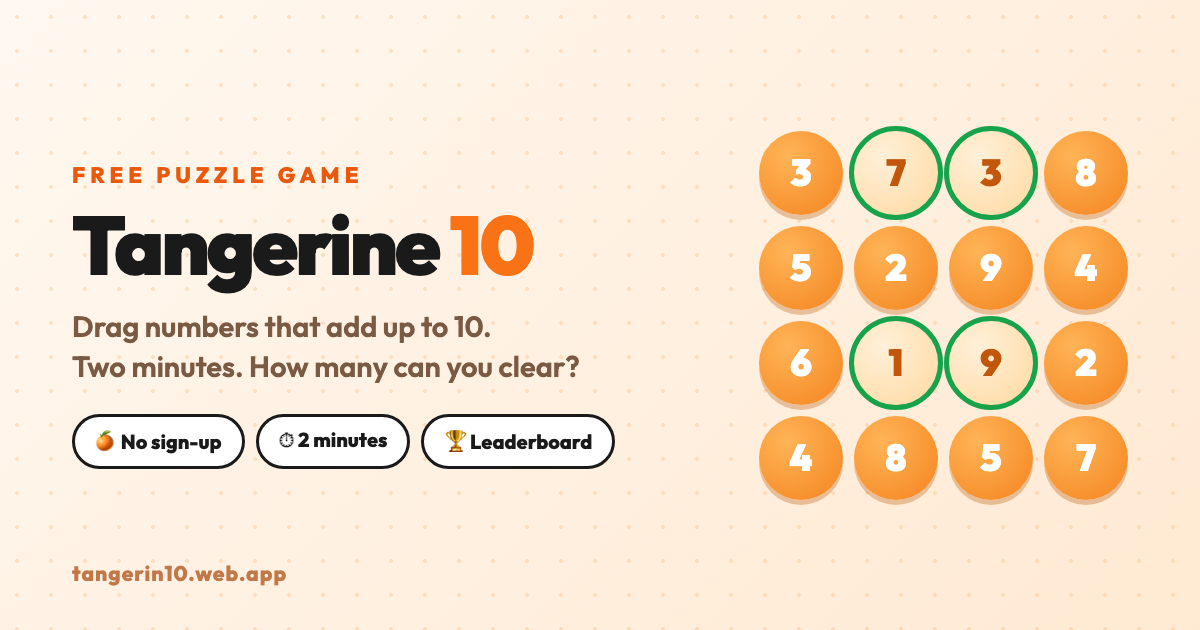
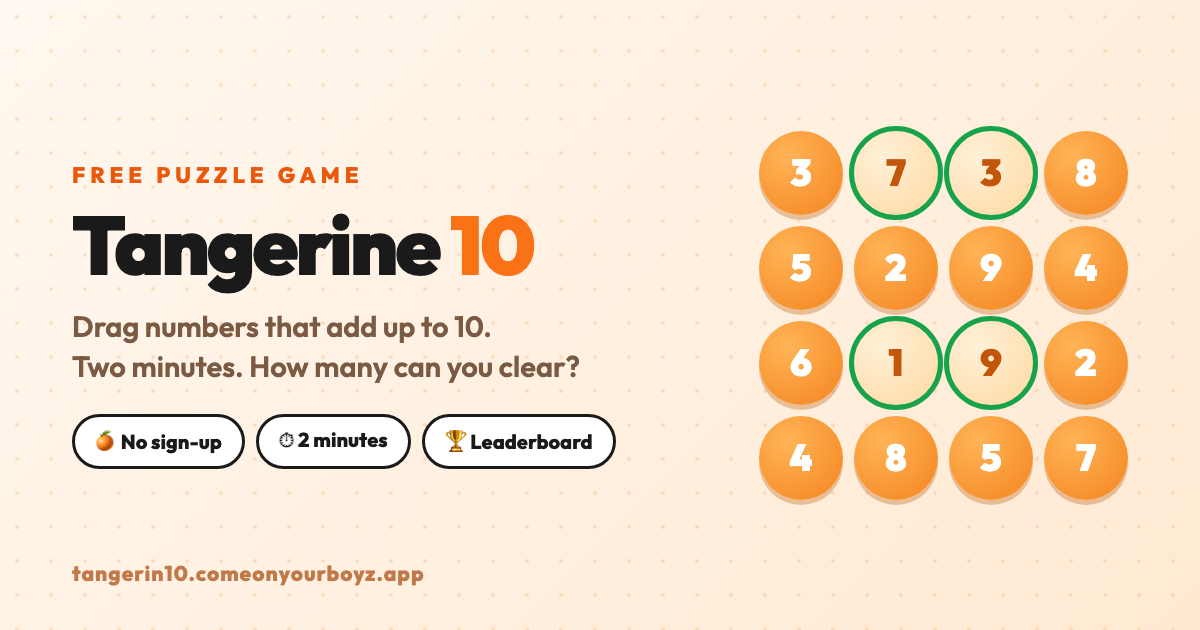
fix : 공유 이미지(og-image)의 옛 주소 글자를 새 도메인으로 교체
what : 디자인 원본 기준으로 og 이미지를 다시 만들어 교체하고, 카카오·SNS 캐시가 새로 받도록 이미지 주소의 버전 값을 올림
why : 공유 카드 이미지에 옛 주소(*.web.app)가 박혀 있어 이전한 도메인과 맞지 않았음

AI-Use: Yes
AI-Model: Claude Sonnet 5.5
AI-Contribution: 90%

diff --git a/public/ko/index.html b/public/ko/index.html
@@ -19,7 +19,7 @@
 <title>귤게임 Tangerine 10 — 숫자 합 10 만들기 퍼즐</title>
 <meta property="og:title" content="귤게임 Tangerine 10 — 숫자 합 10 만들기 퍼즐">
 <meta property="og:description" content="2분 동안 합이 10이 되는 숫자를 골라 없애는 무료 숫자 퍼즐 게임입니다. 전 세계 랭킹에 도전해 보세요.">
-<meta property="og:image" content="https://tangerin10.comeonyourboyz.app/og-tangerin10.png?v=7">
+<meta property="og:image" content="https://tangerin10.comeonyourboyz.app/og-tangerin10.png?v=8">
 <meta property="og:url" content="https://tangerin10.comeonyourboyz.app/ko/">
 <meta property="og:type" content="website">
 <meta property="og:site_name" content="Tangerine 10">
@@ -32,7 +32,7 @@
 <link rel="alternate" hreflang="en" href="https://tangerin10.comeonyourboyz.app/"><link rel="alternate" hreflang="ko" href="https://tangerin10.comeonyourboyz.app/ko/"><link rel="alternate" hreflang="x-default" href="https://tangerin10.comeonyourboyz.app/">
 <meta name="twitter:card" content="summary_large_image">
 <meta name="twitter:title" content="귤게임 Tangerine 10 — 숫자 합 10 만들기 퍼즐">
-<meta name="twitter:image" content="https://tangerin10.comeonyourboyz.app/og-tangerin10.png?v=7">
+<meta name="twitter:image" content="https://tangerin10.comeonyourboyz.app/og-tangerin10.png?v=8">
 <!-- fonts:start --><link rel="preconnect" href="https://fonts.googleapis.com"><link rel="preconnect" href="https://fonts.gstatic.com" crossorigin>
 <link href="https://fonts.googleapis.com/css2?family=Bricolage+Grotesque:opsz,wght@12..96,500;12..96,700;12..96,800&family=Outfit:wght@400;600;700;800;900&display=swap" rel="stylesheet">
 <link href="https://cdn.jsdelivr.net/gh/sun-typeface/SUIT@2/fonts/static/woff2/SUIT.css" rel="stylesheet"><!-- fonts:end -->
@@ -811,7 +811,7 @@ function shareKakao(){
     content:{
       title:'🍊 Tangerine 10',
       description:'나 '+S+'점 달성! 2분 안에 귤 터뜨리기 게임. 도전해봐!',
-      imageUrl:'https://tangerin10.comeonyourboyz.app/og-tangerin10.png?v=7',
+      imageUrl:'https://tangerin10.comeonyourboyz.app/og-tangerin10.png?v=8',
       imageWidth:800,
       imageHeight:600,
       link:{mobileWebUrl:SHARE_URL,webUrl:SHARE_URL}

diff --git a/public/index.html b/public/index.html
@@ -19,7 +19,7 @@
 <title>Tangerine 10 — Number Puzzle Game</title>
 <meta property="og:title" content="Tangerine 10 — Number Puzzle Game">
 <meta property="og:description" content="A free 2-minute number puzzle: drag to pick numbers that add up to 10 and climb the global ranking.">
-<meta property="og:image" content="https://tangerin10.comeonyourboyz.app/og-tangerin10.png?v=7">
+<meta property="og:image" content="https://tangerin10.comeonyourboyz.app/og-tangerin10.png?v=8">
 <meta property="og:url" content="https://tangerin10.comeonyourboyz.app">
 <meta property="og:type" content="website">
 <meta property="og:site_name" content="Tangerine 10">
@@ -32,7 +32,7 @@
 <link rel="alternate" hreflang="en" href="https://tangerin10.comeonyourboyz.app/"><link rel="alternate" hreflang="ko" href="https://tangerin10.comeonyourboyz.app/ko/"><link rel="alternate" hreflang="x-default" href="https://tangerin10.comeonyourboyz.app/">
 <meta name="twitter:card" content="summary_large_image">
 <meta name="twitter:title" content="Tangerine 10 — Number Puzzle Game">
-<meta name="twitter:image" content="https://tangerin10.comeonyourboyz.app/og-tangerin10.png?v=7">
+<meta name="twitter:image" content="https://tangerin10.comeonyourboyz.app/og-tangerin10.png?v=8">
 <!-- fonts:start --><link rel="preconnect" href="https://fonts.googleapis.com"><link rel="preconnect" href="https://fonts.gstatic.com" crossorigin>
 <link href="https://fonts.googleapis.com/css2?family=Bricolage+Grotesque:opsz,wght@12..96,500;12..96,700;12..96,800&family=Outfit:wght@400;600;700;800;900&display=swap" rel="stylesheet">
 <link href="https://cdn.jsdelivr.net/gh/sun-typeface/SUIT@2/fonts/static/woff2/SUIT.css" rel="stylesheet"><!-- fonts:end -->
@@ -811,7 +811,7 @@ function shareKakao(){
     content:{
       title:'🍊 Tangerine 10',
       description:'나 '+S+'점 달성! 2분 안에 귤 터뜨리기 게임. 도전해봐!',
-      imageUrl:'https://tangerin10.comeonyourboyz.app/og-tangerin10.png?v=7',
+      imageUrl:'https://tangerin10.comeonyourboyz.app/og-tangerin10.png?v=8',
       imageWidth:800,
       imageHeight:600,
       link:{mobileWebUrl:SHARE_URL,webUrl:SHARE_URL}

diff --git a/public/ko/board-statistics.html b/public/ko/board-statistics.html
@@ -19,7 +19,7 @@
 <meta property="og:title" content="귤게임 판 통계 — 새 판 10만 개 시뮬레이션">
 <meta property="og:description" content="귤게임 Tangerine 10의 새 판 10만 개를 시뮬레이션했습니다. 판마다 바로 터뜨릴 수 있는 묶음과 짝의 수, 숫자별로 고립되는 비율, 9가 처음부터 1과 떨어져 있을 확률.">
 <meta property="og:url" content="https://tangerin10.comeonyourboyz.app/ko/board-statistics">
-<meta property="og:image" content="https://tangerin10.comeonyourboyz.app/og-tangerin10.png?v=7">
+<meta property="og:image" content="https://tangerin10.comeonyourboyz.app/og-tangerin10.png?v=8">
 <meta property="og:image:width" content="1200">
 <meta property="og:image:height" content="630">
 <meta property="og:image:alt" content="귤게임 Tangerine 10 숫자 퍼즐">
@@ -27,7 +27,7 @@
 <meta name="twitter:card" content="summary_large_image">
 <meta name="twitter:title" content="귤게임 판 통계 — 새 판 10만 개 시뮬레이션">
 <meta name="twitter:description" content="귤게임 Tangerine 10의 새 판 10만 개를 시뮬레이션했습니다. 판마다 바로 터뜨릴 수 있는 묶음과 짝의 수, 숫자별로 고립되는 비율, 9가 처음부터 1과 떨어져 있을 확률.">
-<meta name="twitter:image" content="https://tangerin10.comeonyourboyz.app/og-tangerin10.png?v=7">
+<meta name="twitter:image" content="https://tangerin10.comeonyourboyz.app/og-tangerin10.png?v=8">
 <link rel="icon" href="/favicon.ico" sizes="any"><link rel="icon" type="image/png" href="/favicon.png" sizes="512x512"><link rel="apple-touch-icon" href="/apple-touch-icon.png">
 <link rel="manifest" href="/site.webmanifest">
 <link rel="preconnect" href="https://fonts.googleapis.com"><link rel="preconnect" href="https://fonts.gstatic.com" crossorigin>

diff --git a/public/ko/analysis.html b/public/ko/analysis.html
@@ -19,7 +19,7 @@
 <meta property="og:title" content="귤게임 분석 — 판 통계·봇 전략·합 10 조합">
 <meta property="og:description" content="게임 코드로 돌린 귤게임 Tangerine 10 시뮬레이션 연구. 무작위 판 10만 개, 실제 점수 규칙으로 움직이는 자동 플레이 봇 네 개, 합이 10이 되는 모든 조합.">
 <meta property="og:url" content="https://tangerin10.comeonyourboyz.app/ko/analysis">
-<meta property="og:image" content="https://tangerin10.comeonyourboyz.app/og-tangerin10.png?v=7">
+<meta property="og:image" content="https://tangerin10.comeonyourboyz.app/og-tangerin10.png?v=8">
 <meta property="og:image:width" content="1200">
 <meta property="og:image:height" content="630">
 <meta property="og:image:alt" content="귤게임 Tangerine 10 숫자 퍼즐">
@@ -27,7 +27,7 @@
 <meta name="twitter:card" content="summary_large_image">
 <meta name="twitter:title" content="귤게임 분석 — 판 통계·봇 전략·합 10 조합">
 <meta name="twitter:description" content="게임 코드로 돌린 귤게임 Tangerine 10 시뮬레이션 연구. 무작위 판 10만 개, 실제 점수 규칙으로 움직이는 자동 플레이 봇 네 개, 합이 10이 되는 모든 조합.">
-<meta name="twitter:image" content="https://tangerin10.comeonyourboyz.app/og-tangerin10.png?v=7">
+<meta name="twitter:image" content="https://tangerin10.comeonyourboyz.app/og-tangerin10.png?v=8">
 <link rel="icon" href="/favicon.ico" sizes="any"><link rel="icon" type="image/png" href="/favicon.png" sizes="512x512"><link rel="apple-touch-icon" href="/apple-touch-icon.png">
 <link rel="manifest" href="/site.webmanifest">
 <link rel="preconnect" href="https://fonts.googleapis.com"><link rel="preconnect" href="https://fonts.gstatic.com" crossorigin>

diff --git a/public/make-ten-combinations.html b/public/make-ten-combinations.html
@@ -19,7 +19,7 @@
 <meta property="og:title" content="Every Way to Make Ten in Tangerine 10 — Combinations and How Often They Appear">
 <meta property="og:description" content="All 29 combinations of two to five numbers from 1 to 9 that add up to ten, the exact odds of each, and how often each appears as a clearable box on a fresh Tangerine 10 board.">
 <meta property="og:url" content="https://tangerin10.comeonyourboyz.app/make-ten-combinations">
-<meta property="og:image" content="https://tangerin10.comeonyourboyz.app/og-tangerin10.png?v=7">
+<meta property="og:image" content="https://tangerin10.comeonyourboyz.app/og-tangerin10.png?v=8">
 <meta property="og:image:width" content="1200">
 <meta property="og:image:height" content="630">
 <meta property="og:image:alt" content="Tangerine 10 number puzzle">
@@ -27,7 +27,7 @@
 <meta name="twitter:card" content="summary_large_image">
 <meta name="twitter:title" content="Every Way to Make Ten in Tangerine 10 — Combinations and How Often They Appear">
 <meta name="twitter:description" content="All 29 combinations of two to five numbers from 1 to 9 that add up to ten, the exact odds of each, and how often each appears as a clearable box on a fresh Tangerine 10 board.">
-<meta name="twitter:image" content="https://tangerin10.comeonyourboyz.app/og-tangerin10.png?v=7">
+<meta name="twitter:image" content="https://tangerin10.comeonyourboyz.app/og-tangerin10.png?v=8">
 <link rel="icon" href="/favicon.ico" sizes="any"><link rel="icon" type="image/png" href="/favicon.png" sizes="512x512"><link rel="apple-touch-icon" href="/apple-touch-icon.png">
 <link rel="manifest" href="/site.webmanifest">
 <link rel="preconnect" href="https://fonts.googleapis.com"><link rel="preconnect" href="https://fonts.gstatic.com" crossorigin>

diff --git a/public/analysis.html b/public/analysis.html
@@ -19,7 +19,7 @@
 <meta property="og:title" content="Tangerine 10 Analysis — Board Statistics, Bot Strategies and Combinations">
 <meta property="og:description" content="Simulation studies of Tangerine 10 built from the game code: 100,000 random boards, four automatic players under the real scoring rules, and every combination that makes ten.">
 <meta property="og:url" content="https://tangerin10.comeonyourboyz.app/analysis">
-<meta property="og:image" content="https://tangerin10.comeonyourboyz.app/og-tangerin10.png?v=7">
+<meta property="og:image" content="https://tangerin10.comeonyourboyz.app/og-tangerin10.png?v=8">
 <meta property="og:image:width" content="1200">
 <meta property="og:image:height" content="630">
 <meta property="og:image:alt" content="Tangerine 10 number puzzle">
@@ -27,7 +27,7 @@
 <meta name="twitter:card" content="summary_large_image">
 <meta name="twitter:title" content="Tangerine 10 Analysis — Board Statistics, Bot Strategies and Combinations">
 <meta name="twitter:description" content="Simulation studies of Tangerine 10 built from the game code: 100,000 random boards, four automatic players under the real scoring rules, and every combination that makes ten.">
-<meta name="twitter:image" content="https://tangerin10.comeonyourboyz.app/og-tangerin10.png?v=7">
+<meta name="twitter:image" content="https://tangerin10.comeonyourboyz.app/og-tangerin10.png?v=8">
 <link rel="icon" href="/favicon.ico" sizes="any"><link rel="icon" type="image/png" href="/favicon.png" sizes="512x512"><link rel="apple-touch-icon" href="/apple-touch-icon.png">
 <link rel="manifest" href="/site.webmanifest">
 <link rel="preconnect" href="https://fonts.googleapis.com"><link rel="preconnect" href="https://fonts.gstatic.com" crossorigin>

diff --git a/public/ko/make-ten-combinations.html b/public/ko/make-ten-combinations.html
@@ -19,7 +19,7 @@
 <meta property="og:title" content="합이 10인 숫자 조합 전부 — 귤게임 출현 빈도">
 <meta property="og:description" content="1~9 숫자 2~5개로 10을 만드는 조합 29가지, 각 조합이 나올 정확한 확률, 귤게임 새 판에 터뜨릴 수 있는 네모로 실제 나타나는 빈도.">
 <meta property="og:url" content="https://tangerin10.comeonyourboyz.app/ko/make-ten-combinations">
-<meta property="og:image" content="https://tangerin10.comeonyourboyz.app/og-tangerin10.png?v=7">
+<meta property="og:image" content="https://tangerin10.comeonyourboyz.app/og-tangerin10.png?v=8">
 <meta property="og:image:width" content="1200">
 <meta property="og:image:height" content="630">
 <meta property="og:image:alt" content="귤게임 Tangerine 10 숫자 퍼즐">
@@ -27,7 +27,7 @@
 <meta name="twitter:card" content="summary_large_image">
 <meta name="twitter:title" content="합이 10인 숫자 조합 전부 — 귤게임 출현 빈도">
 <meta name="twitter:description" content="1~9 숫자 2~5개로 10을 만드는 조합 29가지, 각 조합이 나올 정확한 확률, 귤게임 새 판에 터뜨릴 수 있는 네모로 실제 나타나는 빈도.">
-<meta name="twitter:image" content="https://tangerin10.comeonyourboyz.app/og-tangerin10.png?v=7">
+<meta name="twitter:image" content="https://tangerin10.comeonyourboyz.app/og-tangerin10.png?v=8">
 <link rel="icon" href="/favicon.ico" sizes="any"><link rel="icon" type="image/png" href="/favicon.png" sizes="512x512"><link rel="apple-touch-icon" href="/apple-touch-icon.png">
 <link rel="manifest" href="/site.webmanifest">
 <link rel="preconnect" href="https://fonts.googleapis.com"><link rel="preconnect" href="https://fonts.gstatic.com" crossorigin>

diff --git a/public/bot-strategies.html b/public/bot-strategies.html
@@ -19,7 +19,7 @@
 <meta property="og:title" content="Tangerine 10 Bot Strategies — Pairs vs Big Boxes in 120 Seconds">
 <meta property="og:description" content="Four automatic Tangerine 10 players, three play speeds, 5,000 games each under the real combo and multiplier rules. Which strategy scores most, and when does it stop being true?">
 <meta property="og:url" content="https://tangerin10.comeonyourboyz.app/bot-strategies">
-<meta property="og:image" content="https://tangerin10.comeonyourboyz.app/og-tangerin10.png?v=7">
+<meta property="og:image" content="https://tangerin10.comeonyourboyz.app/og-tangerin10.png?v=8">
 <meta property="og:image:width" content="1200">
 <meta property="og:image:height" content="630">
 <meta property="og:image:alt" content="Tangerine 10 number puzzle">
@@ -27,7 +27,7 @@
 <meta name="twitter:card" content="summary_large_image">
 <meta name="twitter:title" content="Tangerine 10 Bot Strategies — Pairs vs Big Boxes in 120 Seconds">
 <meta name="twitter:description" content="Four automatic Tangerine 10 players, three play speeds, 5,000 games each under the real combo and multiplier rules. Which strategy scores most, and when does it stop being true?">
-<meta name="twitter:image" content="https://tangerin10.comeonyourboyz.app/og-tangerin10.png?v=7">
+<meta name="twitter:image" content="https://tangerin10.comeonyourboyz.app/og-tangerin10.png?v=8">
 <link rel="icon" href="/favicon.ico" sizes="any"><link rel="icon" type="image/png" href="/favicon.png" sizes="512x512"><link rel="apple-touch-icon" href="/apple-touch-icon.png">
 <link rel="manifest" href="/site.webmanifest">
 <link rel="preconnect" href="https://fonts.googleapis.com"><link rel="preconnect" href="https://fonts.gstatic.com" crossorigin>

diff --git a/public/ko/how-to-play.html b/public/ko/how-to-play.html
@@ -19,7 +19,7 @@
 <meta property="og:title" content="귤게임 하는 법 — 규칙·점수·콤보 총정리">
 <meta property="og:description" content="귤게임 Tangerine 10의 모든 규칙. 120초 제한, 합이 정확히 10이어야 터지는 규칙, 터뜨린 개수로 매기는 점수, 콤보 배율까지 정리했습니다.">
 <meta property="og:url" content="https://tangerin10.comeonyourboyz.app/ko/how-to-play">
-<meta property="og:image" content="https://tangerin10.comeonyourboyz.app/og-tangerin10.png?v=7">
+<meta property="og:image" content="https://tangerin10.comeonyourboyz.app/og-tangerin10.png?v=8">
 <meta property="og:image:width" content="1200">
 <meta property="og:image:height" content="630">
 <meta property="og:image:alt" content="귤게임 Tangerine 10 숫자 퍼즐">
@@ -27,7 +27,7 @@
 <meta name="twitter:card" content="summary_large_image">
 <meta name="twitter:title" content="귤게임 하는 법 — 규칙·점수·콤보 총정리">
 <meta name="twitter:description" content="귤게임 Tangerine 10의 모든 규칙. 120초 제한, 합이 정확히 10이어야 터지는 규칙, 터뜨린 개수로 매기는 점수, 콤보 배율까지 정리했습니다.">
-<meta name="twitter:image" content="https://tangerin10.comeonyourboyz.app/og-tangerin10.png?v=7">
+<meta name="twitter:image" content="https://tangerin10.comeonyourboyz.app/og-tangerin10.png?v=8">
 <link rel="icon" href="/favicon.ico" sizes="any"><link rel="icon" type="image/png" href="/favicon.png" sizes="512x512"><link rel="apple-touch-icon" href="/apple-touch-icon.png">
 <link rel="manifest" href="/site.webmanifest">
 <link rel="preconnect" href="https://fonts.googleapis.com"><link rel="preconnect" href="https://fonts.gstatic.com" crossorigin>

diff --git a/public/ko/bot-strategies.html b/public/ko/bot-strategies.html
@@ -19,7 +19,7 @@
 <meta property="og:title" content="귤게임 봇 전략 비교 — 짝 먼저 vs 큰 네모 먼저">
 <meta property="og:description" content="귤게임 실제 규칙(콤보 2초, 배율)대로 움직이는 자동 플레이 봇 네 개를 세 가지 속도로 5,000판씩 돌려 120초 점수를 비교했습니다.">
 <meta property="og:url" content="https://tangerin10.comeonyourboyz.app/ko/bot-strategies">
-<meta property="og:image" content="https://tangerin10.comeonyourboyz.app/og-tangerin10.png?v=7">
+<meta property="og:image" content="https://tangerin10.comeonyourboyz.app/og-tangerin10.png?v=8">
 <meta property="og:image:width" content="1200">
 <meta property="og:image:height" content="630">
 <meta property="og:image:alt" content="귤게임 Tangerine 10 숫자 퍼즐">
@@ -27,7 +27,7 @@
 <meta name="twitter:card" content="summary_large_image">
 <meta name="twitter:title" content="귤게임 봇 전략 비교 — 짝 먼저 vs 큰 네모 먼저">
 <meta name="twitter:description" content="귤게임 실제 규칙(콤보 2초, 배율)대로 움직이는 자동 플레이 봇 네 개를 세 가지 속도로 5,000판씩 돌려 120초 점수를 비교했습니다.">
-<meta name="twitter:image" content="https://tangerin10.comeonyourboyz.app/og-tangerin10.png?v=7">
+<meta name="twitter:image" content="https://tangerin10.comeonyourboyz.app/og-tangerin10.png?v=8">
 <link rel="icon" href="/favicon.ico" sizes="any"><link rel="icon" type="image/png" href="/favicon.png" sizes="512x512"><link rel="apple-touch-icon" href="/apple-touch-icon.png">
 <link rel="manifest" href="/site.webmanifest">
 <link rel="preconnect" href="https://fonts.googleapis.com"><link rel="preconnect" href="https://fonts.gstatic.com" crossorigin>

diff --git a/public/ko/records.html b/public/ko/records.html
@@ -18,7 +18,7 @@
 <meta property="og:title" content="귤게임 기록 — 이번 주 최고 점수와 역대 순위">
 <meta property="og:description" content="귤게임 Tangerine 10에 저장된 점수 모음. 이번 주 최고 점수, 역대 상위 10위, 달마다 저장된 판 수를 랭킹에서 바로 가져와 보여 줍니다.">
 <meta property="og:url" content="https://tangerin10.comeonyourboyz.app/ko/records">
-<meta property="og:image" content="https://tangerin10.comeonyourboyz.app/og-tangerin10.png?v=7">
+<meta property="og:image" content="https://tangerin10.comeonyourboyz.app/og-tangerin10.png?v=8">
 <meta property="og:image:width" content="1200">
 <meta property="og:image:height" content="630">
 <meta property="og:image:alt" content="귤게임 Tangerine 10 숫자 퍼즐">
@@ -26,7 +26,7 @@
 <meta name="twitter:card" content="summary_large_image">
 <meta name="twitter:title" content="귤게임 기록 — 이번 주 최고 점수와 역대 순위">
 <meta name="twitter:description" content="귤게임 Tangerine 10에 저장된 점수 모음. 이번 주 최고 점수, 역대 상위 10위, 달마다 저장된 판 수를 랭킹에서 바로 가져와 보여 줍니다.">
-<meta name="twitter:image" content="https://tangerin10.comeonyourboyz.app/og-tangerin10.png?v=7">
+<meta name="twitter:image" content="https://tangerin10.comeonyourboyz.app/og-tangerin10.png?v=8">
 <link rel="icon" href="/favicon.ico" sizes="any"><link rel="icon" type="image/png" href="/favicon.png" sizes="512x512"><link rel="apple-touch-icon" href="/apple-touch-icon.png">
 <link rel="manifest" href="/site.webmanifest">
 <link rel="preconnect" href="https://fonts.googleapis.com"><link rel="preconnect" href="https://fonts.gstatic.com" crossorigin>

diff --git a/public/ko/about.html b/public/ko/about.html
@@ -18,7 +18,7 @@
 <meta property="og:title" content="귤게임 Tangerine 10 소개 — 누가, 어떻게 만들었나">
 <meta property="og:description" content="귤게임 Tangerine 10을 누가 운영하는지, 어떻게 만들었는지(AI 도구 사용 포함), 점수는 어떻게 저장되는지, 광고는 어디에 나오는지.">
 <meta property="og:url" content="https://tangerin10.comeonyourboyz.app/ko/about">
-<meta property="og:image" content="https://tangerin10.comeonyourboyz.app/og-tangerin10.png?v=7">
+<meta property="og:image" content="https://tangerin10.comeonyourboyz.app/og-tangerin10.png?v=8">
 <meta property="og:image:width" content="1200">
 <meta property="og:image:height" content="630">
 <meta property="og:image:alt" content="귤게임 Tangerine 10 숫자 퍼즐">
@@ -26,7 +26,7 @@
 <meta name="twitter:card" content="summary_large_image">
 <meta name="twitter:title" content="귤게임 Tangerine 10 소개 — 누가, 어떻게 만들었나">
 <meta name="twitter:description" content="귤게임 Tangerine 10을 누가 운영하는지, 어떻게 만들었는지(AI 도구 사용 포함), 점수는 어떻게 저장되는지, 광고는 어디에 나오는지.">
-<meta name="twitter:image" content="https://tangerin10.comeonyourboyz.app/og-tangerin10.png?v=7">
+<meta name="twitter:image" content="https://tangerin10.comeonyourboyz.app/og-tangerin10.png?v=8">
 <link rel="icon" href="/favicon.ico" sizes="any"><link rel="icon" type="image/png" href="/favicon.png" sizes="512x512"><link rel="apple-touch-icon" href="/apple-touch-icon.png">
 <link rel="manifest" href="/site.webmanifest">
 <link rel="preconnect" href="https://fonts.googleapis.com"><link rel="preconnect" href="https://fonts.gstatic.com" crossorigin>
